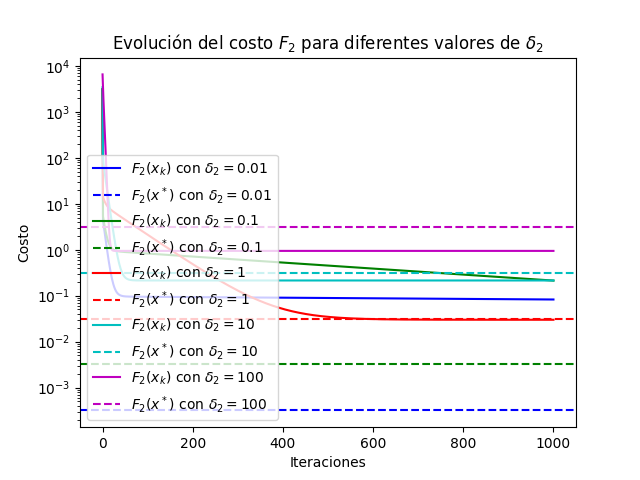
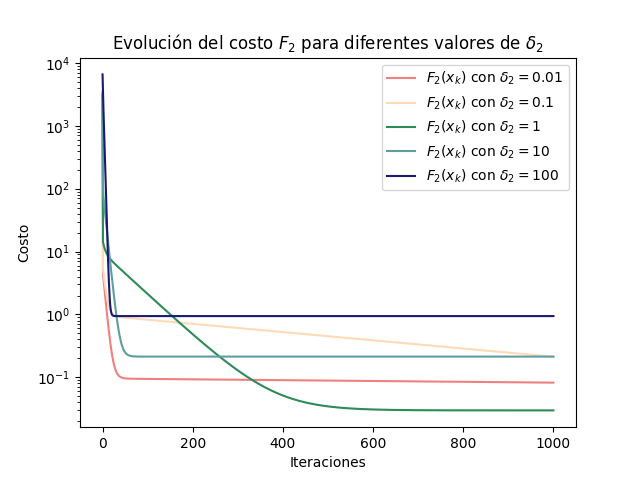
:airplane:

diff --git a/TP4/segundobychat.py b/TP4/segundobychat.py
@@ -8,17 +8,26 @@ d = 100
 A = np.random.rand(n, d)
 b = np.random.rand(n)
 
-# Función de costo F(x)
 def F(x):
+    """Calcula la función de costo F(x) = (Ax - b)^T (Ax - b)."""
     return np.linalg.norm(A @ x - b)**2
+
+def grad_F(x):
+    """Calcula el gradiente de F(x)."""
+    return 2 * A.T @ (A @ x - b)
+
+def hessiano_F(A): # es la segunda derivada de F(x) porque depende de una sola variable
+    """Calcula el Hessiano de F(x)."""
+    return 2 * A.T @ A 
+# Para encontrar los autovalores del Hessiano H=2A^TA, resolvemos el problema de autovalores: det(2A^TA−λI)=0
+
+# Los autovalores λ i de 2 A^TA son proporcionales a los cuadrados de los valores singulares σ i de la matriz A. 
+# Esto se debe a que A^TA y AA^T comparten los mismos valores singulares.
+
 
 # Función de costo F2(x) con regularización L2
 def F2(x, delta2):
     return F(x) + delta2 * np.linalg.norm(x)**2
-
-# Gradiente de F(x)
-def grad_F(x):
-    return 2 * A.T @ (A @ x - b)
 
 # Gradiente de F2(x)
 def grad_F2(x, delta2):
@@ -36,111 +45,136 @@ def gradient_descent(grad_func, x0, step_size, max_iter, delta2=None):
         history.append(x)
     return np.array(history)
 
-# Parámetros del algoritmo
-x0 = np.random.rand(d)
-max_iter = 1000
-lambda_max = np.max(np.linalg.eigvals(2 * A.T @ A).real)
-step_size = 1 / lambda_max
 
-# Solución mediante SVD
-U, Sigma, VT = np.linalg.svd(A, full_matrices=False)
-x_svd = VT.T @ np.linalg.inv(np.diag(Sigma)) @ U.T @ b
 
-# Parámetros de regularización
-delta2_values = [0.01, 0.1, 1, 10, 100]
 
-# Gráficos para diferentes valores de delta2
-colors = ['b', 'g', 'r', 'c', 'm']
-markers = ['o', 's', 'd', 'x', '+']
+def SVD(A, b):
+    U, Sigma, VT = np.linalg.svd(A, full_matrices=False)
+    x_svd = VT.T @ np.linalg.inv(np.diag(Sigma)) @ U.T @ b
+    return x_svd
 
-# Evolución del costo F2 para diferentes valores de delta2
-plt.figure()
-for i, delta2 in enumerate(delta2_values):
-    history_F2 = gradient_descent(grad_F2, x0, step_size, max_iter, delta2)
-    cost_F2 = [F2(x, delta2) for x in history_F2]
+def plot_costo_F2(x_svd, x0, step_size, max_iter, delta2_values, colors):
+  
+    plt.figure()
+    for i, delta2 in enumerate(delta2_values):
+        history_F2 = gradient_descent(grad_F2, x0, step_size, max_iter, delta2)
+        cost_F2 = [F2(x, delta2) for x in history_F2]
+        
+        plt.plot(cost_F2, label=f'$F_2(x_k)$ con $\\delta_2={delta2}$', color=colors[i])
+        # plt.axhline(y=F2(x_svd, delta2), color=colors[i], linestyle='--', label=f'$F_2(x^*)$ con $\\delta_2={delta2}$')
+        
+    plt.yscale('log')
+    plt.xlabel('Iteraciones')
+    plt.ylabel('Costo')
+    plt.legend()
+    plt.title('Evolución del costo $F_2$ para diferentes valores de $\\delta_2$')
+    plt.savefig('costo_evolucion_F2_delta2.png')
+    plt.show()
+
+def L2(x_svd, x0, step_size, max_iter, delta2_values, d=100, colors=['b', 'g', 'r', 'c', 'm'], markers=['o', 's', 'd', 'x', '+']):
+    # Comparación de la solución obtenida con regularización L2 para diferentes valores de delta2
+    plt.figure()
+    for i, delta2 in enumerate(delta2_values):
+        history_F2 = gradient_descent(grad_F2, x0, step_size, max_iter, delta2)
+        plt.scatter(np.arange(d), history_F2[-1], label=f'$\\delta_2={delta2}$', color=colors[i], marker=markers[i], alpha = 0.9)
+    plt.scatter(np.arange(d), x_svd, label='Solución mediante SVD', color='k', marker='x')
+    plt.xlabel('Índice')
+    plt.ylabel('Valor de x')
+    plt.legend()
+    plt.title('Comparación de la solución obtenida con diferentes valores de $\\delta_2$')
+    plt.savefig('solucion_comparacion_delta2.png')
+    plt.show()
+
+def sigma_L2(x0, step_size, max_iter, delta2_values):
+    # Desviación estándar de la solución obtenida con regularización L2 para diferentes valores de delta2
+    std_dev = []
+    for delta2 in delta2_values:
+        history_F2 = gradient_descent(grad_F2, x0, step_size, max_iter, delta2)
+        std_dev.append(np.std(history_F2[-1]))
+
+    plt.figure()
+    plt.plot(delta2_values, std_dev, 'o-')
+    plt.xlabel('$\\delta_2$')
+    plt.ylabel('Desviación Estándar')
+    plt.title('Desviación Estándar de la Solución vs $\\delta_2$')
+    plt.savefig('desviacion_estandar.png')
+    plt.show()
+
+def norma_L2(x0, step_size, max_iter, delta2_values):
+    # Norma de la solución obtenida con regularización L2 para diferentes valores de delta2
+    norms = []
+    for delta2 in delta2_values:
+        history_F2 = gradient_descent(grad_F2, x0, step_size, max_iter, delta2)
+        norms.append(np.linalg.norm(history_F2[-1]))
+
+    plt.figure()
+    plt.plot(delta2_values, norms, marker='o', linestyle='-')
+    plt.xlabel('$\\delta_2$')
+    plt.ylabel('Norma de la Solución')
+    plt.title('Norma de la Solución vs $\\delta_2$')
+    plt.savefig('norma_solucion.png')
+    plt.show()
+
+def singular_values(A, x0, step_size, max_iter, delta2_values, Sigma):
+    # Evolución de los valores singulares durante las iteraciones
+    sigma_evolution = np.zeros((max_iter + 1, len(Sigma)))
+    for i, delta2 in enumerate(delta2_values):
+        history_F2 = gradient_descent(grad_F2, x0, step_size, max_iter, delta2)
+        for j in range(max_iter + 1):
+            sigma_evolution[j, :] = np.linalg.svd(A @ history_F2[j].reshape(-1, 1), compute_uv=False)
+
+    plt.figure()
+    for i in range(len(Sigma)):
+        plt.plot(sigma_evolution[:, i], label=f'$\\sigma_{i+1}$')
+    plt.xlabel('Iteraciones')
+    plt.ylabel('Valores singulares')
+    plt.title('Evolución de los valores singulares')
+    plt.legend()
+    plt.savefig('sigma_evolucion.png')
+    plt.show()
+
+def error_relativo(x_svd, x0, step_size, max_iter, delta2_values, colors= ['lightcoral', 'peachpuff', 'darkseagreen', 'lightseagreen', 'powderblue', 'mediumslateblue']):
+    # Comparación de los errores relativos entre SVD y las soluciones obtenidas por los diferentes métodos
+    errors = []
+    for delta2 in delta2_values:
+        history_F2 = gradient_descent(grad_F2, x0, step_size, max_iter, delta2)
+        errors.append(np.linalg.norm(x_svd - history_F2[-1]) / np.linalg.norm(x_svd))
+
+    history_F = gradient_descent(grad_F, x0, step_size, max_iter)
+    error_F = np.linalg.norm(x_svd - history_F[-1]) / np.linalg.norm(x_svd)
+
+    plt.figure()
+    plt.bar(['F sin regularizar'] + [f'$\\delta_2={delta2}$' for delta2 in delta2_values], [error_F] + errors, color=colors)
+    plt.xlabel('Métodos')
+    plt.ylabel('Error Relativo')
+    plt.title('Error relativo entre SVD y las soluciones obtenidas')
+    plt.savefig('error_relativo.png')
+    plt.show()
     
-    plt.plot(cost_F2, label=f'$F_2(x_k)$ con $\\delta_2={delta2}$', color=colors[i])
-    plt.axhline(y=F2(x_svd, delta2), color=colors[i], linestyle='--', label=f'$F_2(x^*)$ con $\\delta_2={delta2}$')
+def main():
+
+
+    # Parámetros del algoritmo
+    x0 = np.random.rand(d)
+    max_iter = 1000
+    lambda_max = np.max(np.linalg.eigvals(2 * A.T @ A).real)
+    step_size = 1 / lambda_max
+
+    x_svd = SVD(A, b)
+
+    # Parámetros de regularización
+    delta2_values = [0.01, 0.1, 1, 10, 100]
+
+    # Gráficos para diferentes valores de delta2
+    colors = ['lightcoral', 'peachpuff', 'seagreen', 'cadetblue', 'midnightblue']
+    markers = ['o', 's', 'd', 'x', '+']
+
+    plot_costo_F2(x_svd, x0, step_size, max_iter, delta2_values, colors)
+    L2(x_svd, x0, step_size, max_iter, delta2_values, d, colors, markers)
+    sigma_L2(x0, step_size, max_iter, delta2_values)
+    norma_L2(x0, step_size, max_iter, delta2_values)
+    singular_values(A, x0, step_size, max_iter, delta2_values, np.linalg.svd(A, full_matrices=False)[1])
+    error_relativo(x_svd, x0, step_size, max_iter, delta2_values)
     
-plt.yscale('log')
-plt.xlabel('Iteraciones')
-plt.ylabel('Costo')
-plt.legend()
-plt.title('Evolución del costo $F_2$ para diferentes valores de $\\delta_2$')
-plt.savefig('costo_evolucion_F2_delta2.png')
-plt.show()
-
-# Comparación de la solución obtenida con regularización L2 para diferentes valores de delta2
-plt.figure()
-for i, delta2 in enumerate(delta2_values):
-    history_F2 = gradient_descent(grad_F2, x0, step_size, max_iter, delta2)
-    plt.scatter(np.arange(d), history_F2[-1], label=f'$\\delta_2={delta2}$', color=colors[i], marker=markers[i])
-plt.scatter(np.arange(d), x_svd, label='Solución mediante SVD', color='k', marker='x')
-plt.xlabel('Índice')
-plt.ylabel('Valor de x')
-plt.legend()
-plt.title('Comparación de la solución obtenida con diferentes valores de $\\delta_2$')
-plt.savefig('solucion_comparacion_delta2.png')
-plt.show()
-
-# Desviación estándar de la solución obtenida con regularización L2 para diferentes valores de delta2
-std_dev = []
-for delta2 in delta2_values:
-    history_F2 = gradient_descent(grad_F2, x0, step_size, max_iter, delta2)
-    std_dev.append(np.std(history_F2[-1]))
-
-plt.figure()
-plt.plot(delta2_values, std_dev, 'o-')
-plt.xlabel('$\\delta_2$')
-plt.ylabel('Desviación Estándar')
-plt.title('Desviación Estándar de la Solución vs $\\delta_2$')
-plt.savefig('desviacion_estandar.png')
-plt.show()
-
-# Norma de la solución obtenida con regularización L2 para diferentes valores de delta2
-norms = []
-for delta2 in delta2_values:
-    history_F2 = gradient_descent(grad_F2, x0, step_size, max_iter, delta2)
-    norms.append(np.linalg.norm(history_F2[-1]))
-
-plt.figure()
-plt.plot(delta2_values, norms, marker='o', linestyle='-')
-plt.xlabel('$\\delta_2$')
-plt.ylabel('Norma de la Solución')
-plt.title('Norma de la Solución vs $\\delta_2$')
-plt.savefig('norma_solucion.png')
-plt.show()
-
-# Evolución de los valores singulares durante las iteraciones
-sigma_evolution = np.zeros((max_iter + 1, len(Sigma)))
-for i, delta2 in enumerate(delta2_values):
-    history_F2 = gradient_descent(grad_F2, x0, step_size, max_iter, delta2)
-    for j in range(max_iter + 1):
-        sigma_evolution[j, :] = np.linalg.svd(A @ history_F2[j].reshape(-1, 1), compute_uv=False)
-
-plt.figure()
-for i in range(len(Sigma)):
-    plt.plot(sigma_evolution[:, i], label=f'$\\sigma_{i+1}$')
-plt.xlabel('Iteraciones')
-plt.ylabel('Valores singulares')
-plt.title('Evolución de los valores singulares')
-plt.legend()
-plt.savefig('sigma_evolucion.png')
-plt.show()
-
-# Comparación de los errores relativos entre SVD y las soluciones obtenidas por los diferentes métodos
-errors = []
-for delta2 in delta2_values:
-    history_F2 = gradient_descent(grad_F2, x0, step_size, max_iter, delta2)
-    errors.append(np.linalg.norm(x_svd - history_F2[-1]) / np.linalg.norm(x_svd))
-
-history_F = gradient_descent(grad_F, x0, step_size, max_iter)
-error_F = np.linalg.norm(x_svd - history_F[-1]) / np.linalg.norm(x_svd)
-
-plt.figure()
-plt.bar(['F sin regularizar'] + [f'$\\delta_2={delta2}$' for delta2 in delta2_values], [error_F] + errors, color=colors)
-plt.xlabel('Métodos')
-plt.ylabel('Error Relativo')
-plt.title('Error relativo entre SVD y las soluciones obtenidas')
-plt.savefig('error_relativo.png')
-plt.show()
+if __name__ == '__main__':
+    main()
